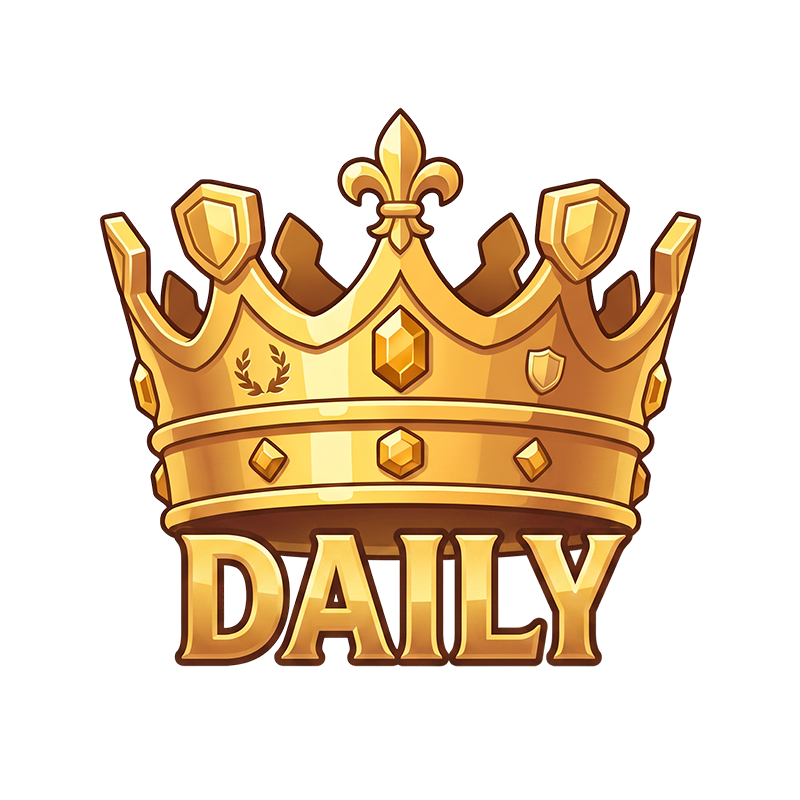
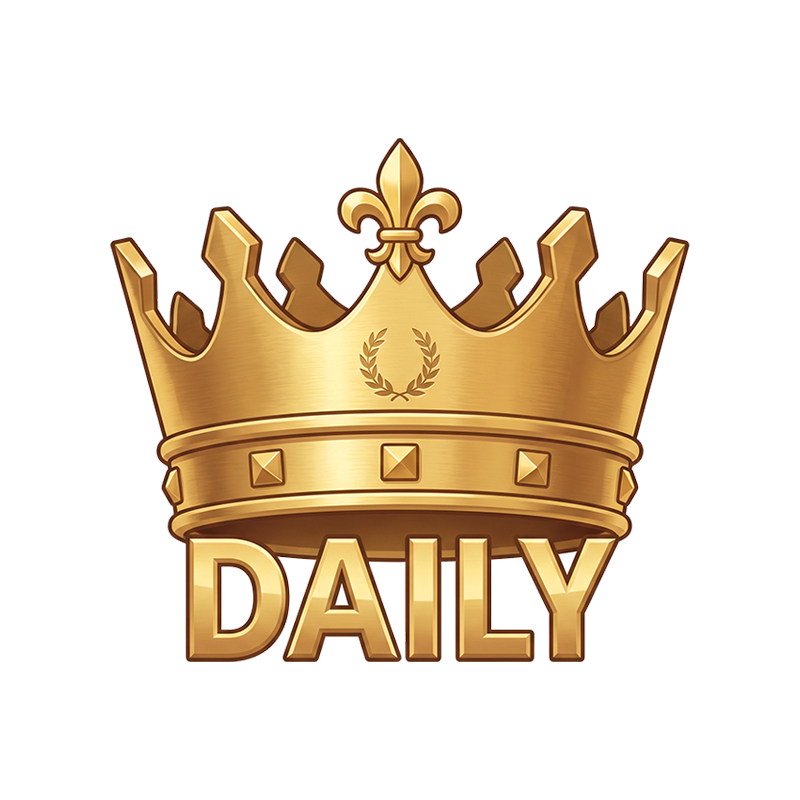
Enhance trophy unlock payloads and update daily leaderboard image
- Updated trophy unlock payloads to include new overall XP milestones with corresponding images.
- Modified the subtitle for the daily leaderboard trophy to emphasize "MOST XP."
- Updated the daily leaderboard image to reflect the new design, ensuring consistency with the updated trophy features.

Changed region(s): [[0.125, 0.125, 0.875, 0.8438]]

diff --git a/ios/BallKnowledge/Features/Home/AwardPreviewViews.swift b/ios/BallKnowledge/Features/Home/AwardPreviewViews.swift
@@ -66,7 +66,12 @@ struct TrophyUnlockPayload: Identifiable, Equatable {
         .weeklyLeague(title: "League Two", image: "l2trophy"),
         .weeklyLeague(title: "Non-League", image: "nltrophy"),
         .weeklyLeague(title: "Sunday League", image: "sltrophy"),
-        .imageOnly(title: "Daily Leaderboard", subtitle: "Most XP", image: "dailytrophy"),
+        .imageOnly(title: "Daily Leaderboard", subtitle: "MOST XP", image: "dailytrophy"),
+        .imageOnly(title: "50k Overall XP", subtitle: "OVERALL XP", image: "50ktrophy"),
+        .imageOnly(title: "100k Overall XP", subtitle: "OVERALL XP", image: "100ktrophy"),
+        .imageOnly(title: "250k Overall XP", subtitle: "OVERALL XP", image: "250ktrophy"),
+        .imageOnly(title: "500k Overall XP", subtitle: "OVERALL XP", image: "500ktrophy"),
+        .imageOnly(title: "1M Overall XP", subtitle: "OVERALL XP", image: "1mtrophy"),
     ]
 
     static let dartsPerfect = previewGameTrophies.first { $0.id == "perfect-darts_501" }!
